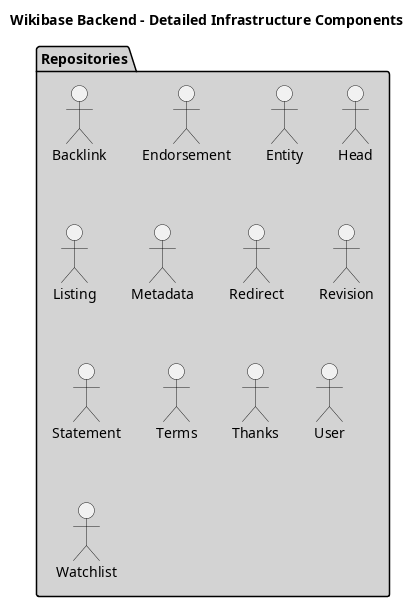
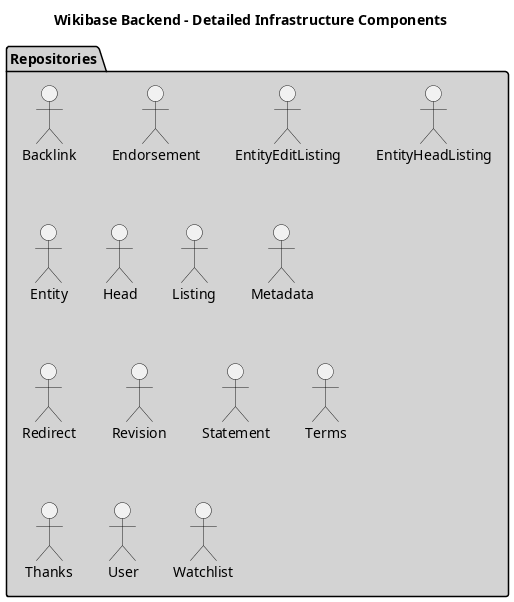
Update documentation and generated files

diff --git a/STATISTICS.md b/STATISTICS.md
@@ -3,18 +3,18 @@
 ───────────────────────────────────────────────────────────────────────────────
 Language                 Files     Lines   Blanks  Comments     Code Complexity
 ───────────────────────────────────────────────────────────────────────────────
-Python                     699     65143     7972      4042    53129       3042
-Markdown                   112     21836     5398         0    16438          0
-Shell                       38       463       92        76      295         28
-YAML                        14      1354       11        34     1309          0
-Plain Text                  11       570        4         0      566          0
+Python                     704     65628     8103      4061    53464       3199
+Markdown                   113     21391     5165         0    16226          0
+Shell                       39       472       94        77      301         28
+YAML                        14      1348       11        34     1303          0
+Plain Text                  11       578        4         0      574          0
 JSON                         3     38627        0         0    38627          0
 TOML                         2       108       13        10       85          0
 SVG                          1       119        0        78       41          0
 ───────────────────────────────────────────────────────────────────────────────
-Total                      880    128220    13490      4240   110490       3070
+Total                      887    128271    13390      4260   110621       3227
 ───────────────────────────────────────────────────────────────────────────────
-Processed 4413328 bytes, 4.413 megabytes (SI)
+Processed 4421050 bytes, 4.421 megabytes (SI)
 ───────────────────────────────────────────────────────────────────────────────
 ```
 # src
@@ -22,14 +22,14 @@ Processed 4413328 bytes, 4.413 megabytes (SI)
 ───────────────────────────────────────────────────────────────────────────────
 Language                 Files     Lines   Blanks  Comments     Code Complexity
 ───────────────────────────────────────────────────────────────────────────────
-Python                     239     18157     2700      2036    13421       1498
-Markdown                    22      2325      519         0     1806          0
-YAML                        12      1123        1         0     1122          0
+Python                     243     18303     2780      2035    13488       1608
+Markdown                    23      2373      521         0     1852          0
+YAML                        12      1117        1         0     1116          0
 JSON                         2       318        0         0      318          0
 ───────────────────────────────────────────────────────────────────────────────
-Total                      275     21923     3220      2036    16667       1498
+Total                      280     22111     3302      2035    16774       1608
 ───────────────────────────────────────────────────────────────────────────────
-Processed 778107 bytes, 0.778 megabytes (SI)
+Processed 781197 bytes, 0.781 megabytes (SI)
 ───────────────────────────────────────────────────────────────────────────────
 ```
 # src/models
@@ -37,12 +37,12 @@ Processed 778107 bytes, 0.778 megabytes (SI)
 ───────────────────────────────────────────────────────────────────────────────
 Language                 Files     Lines   Blanks  Comments     Code Complexity
 ───────────────────────────────────────────────────────────────────────────────
-Python                     239     18157     2700      2036    13421       1498
-Markdown                    10      1942      426         0     1516          0
+Python                     243     18303     2780      2035    13488       1608
+Markdown                    10      1908      426         0     1482          0
 ───────────────────────────────────────────────────────────────────────────────
-Total                      249     20099     3126      2036    14937       1498
+Total                      253     20211     3206      2035    14970       1608
 ───────────────────────────────────────────────────────────────────────────────
-Processed 731524 bytes, 0.732 megabytes (SI)
+Processed 731747 bytes, 0.732 megabytes (SI)
 ───────────────────────────────────────────────────────────────────────────────
 ```
 # src/models/config
@@ -62,12 +62,12 @@ Processed 3009 bytes, 0.003 megabytes (SI)
 ───────────────────────────────────────────────────────────────────────────────
 Language                 Files     Lines   Blanks  Comments     Code Complexity
 ───────────────────────────────────────────────────────────────────────────────
-Python                      95      8168     1247       711     6210        627
-Markdown                     2        85        2         0       83          0
+Python                      98      8251     1265       713     6273        639
+Markdown                     2        51        2         0       49          0
 ───────────────────────────────────────────────────────────────────────────────
-Total                       97      8253     1249       711     6293        627
+Total                      100      8302     1267       713     6322        639
 ───────────────────────────────────────────────────────────────────────────────
-Processed 304806 bytes, 0.305 megabytes (SI)
+Processed 302970 bytes, 0.303 megabytes (SI)
 ───────────────────────────────────────────────────────────────────────────────
 ```
 # src/models/infrastructure
@@ -75,11 +75,11 @@ Processed 304806 bytes, 0.305 megabytes (SI)
 ───────────────────────────────────────────────────────────────────────────────
 Language                 Files     Lines   Blanks  Comments     Code Complexity
 ───────────────────────────────────────────────────────────────────────────────
-Python                      33      4526      452       610     3464        450
+Python                      33      4533      497       602     3434        548
 ───────────────────────────────────────────────────────────────────────────────
-Total                       33      4526      452       610     3464        450
+Total                       33      4533      497       602     3434        548
 ───────────────────────────────────────────────────────────────────────────────
-Processed 179405 bytes, 0.179 megabytes (SI)
+Processed 179576 bytes, 0.180 megabytes (SI)
 ───────────────────────────────────────────────────────────────────────────────
 ```
 # src/models/internal_representation
@@ -87,11 +87,11 @@ Processed 179405 bytes, 0.179 megabytes (SI)
 ───────────────────────────────────────────────────────────────────────────────
 Language                 Files     Lines   Blanks  Comments     Code Complexity
 ───────────────────────────────────────────────────────────────────────────────
-Python                      36       989      228       167      594         57
+Python                      37      1009      235       170      604         57
 ───────────────────────────────────────────────────────────────────────────────
-Total                       36       989      228       167      594         57
+Total                       37      1009      235       170      604         57
 ───────────────────────────────────────────────────────────────────────────────
-Processed 29042 bytes, 0.029 megabytes (SI)
+Processed 29698 bytes, 0.030 megabytes (SI)
 ───────────────────────────────────────────────────────────────────────────────
 ```
 # src/models/json_parser
@@ -137,10 +137,10 @@ Processed 7474 bytes, 0.007 megabytes (SI)
 ───────────────────────────────────────────────────────────────────────────────
 Language                 Files     Lines   Blanks  Comments     Code Complexity
 ───────────────────────────────────────────────────────────────────────────────
-Python                     148     23590     3226      1427    18937        590
+Python                     148     23624     3227      1427    18970        590
 ───────────────────────────────────────────────────────────────────────────────
-Total                      148     23590     3226      1427    18937        590
+Total                      148     23624     3227      1427    18970        590
 ───────────────────────────────────────────────────────────────────────────────
-Processed 850499 bytes, 0.850 megabytes (SI)
+Processed 851406 bytes, 0.851 megabytes (SI)
 ───────────────────────────────────────────────────────────────────────────────
 ```

diff --git a/src/models/rest_api/ENDPOINTS.md b/src/models/rest_api/ENDPOINTS.md
@@ -23,10 +23,15 @@
 | ✅ | GET | `/entitybase/v1/entities/properties/{property_id}/descriptions/{language_code}` | Get property description for language. |
 | ✅ | GET | `/entitybase/v1/entities/properties/{property_id}/labels/{language_code}` | Get property label for language. |
 | ✅ | GET | `/entitybase/v1/entities/{entity_id}` | Retrieve a single entity by its ID. |
+| ✅ | DELETE | `/entitybase/v1/entities/{entity_id}` | No description |
+| ✅ | GET | `/entitybase/v1/entities/{entity_id}.ttl` | No description |
 | ✅ | GET | `/entitybase/v1/entities/{entity_id}/history` | Get the revision history for an entity. |
+| ✅ | GET | `/entitybase/v1/entities/{entity_id}/properties` | No description |
+| ✅ | GET | `/entitybase/v1/entities/{entity_id}/properties/{property_list}` | No description |
 | ✅ | GET | `/entitybase/v1/entities/{entity_id}/revision/{revision_id}` | Get a specific revision of an entity. |
 | ✅ | GET | `/entitybase/v1/entities/{entity_id}/revision/{revision_id}/json` | Get JSON representation of a specific entity revision. |
 | ✅ | GET | `/entitybase/v1/entities/{entity_id}/revision/{revision_id}/rdf` | Get RDF representation of a specific entity revision. |
+| ✅ | GET | `/entitybase/v1/entities/{entity_id}/revisions/raw/{revision_id}` | No description |
 | ✅ | GET | `/entitybase/v1/health` | Health check endpoint that redirects or provides status. |
 | ✅ | PUT | `/entitybase/v1/item/{entity_id}` | Update an existing item entity. |
 | ✅ | POST | `/entitybase/v1/json-import` | Import entities from Wikidata JSONL dump file. |
@@ -39,6 +44,6 @@
 
 | Status | Count |
 |--------|-------|
-| Implemented | 34 |
+| Implemented | 39 |
 | Not Implemented | 0 |
-| Total | 34 |
+| Total | 39 |

diff --git a/doc/ARCHITECTURE/REPOSITORIES.md b/doc/ARCHITECTURE/REPOSITORIES.md
@@ -165,6 +165,18 @@ This document describes the repository classes that handle data access to Vitess
 **Location**: `models/infrastructure/vitess/listing_repository.py`
 **Purpose**: Repository for entity listing operations.
 
+**Methods**:
+
+- `list_locked(conn, limit) -> list[EntityListing]`
+
+- `list_semi_protected(conn, limit) -> list[EntityListing]`
+
+- `list_archived(conn, limit) -> list[EntityListing]`
+
+- `list_dangling(conn, limit) -> list[EntityListing]`
+
+- `list_by_edit_type(conn, edit_type, limit) -> list[EntityListing]`
+
 ### RedirectRepository
 
 **Location**: `models/infrastructure/vitess/redirect_repository.py`
